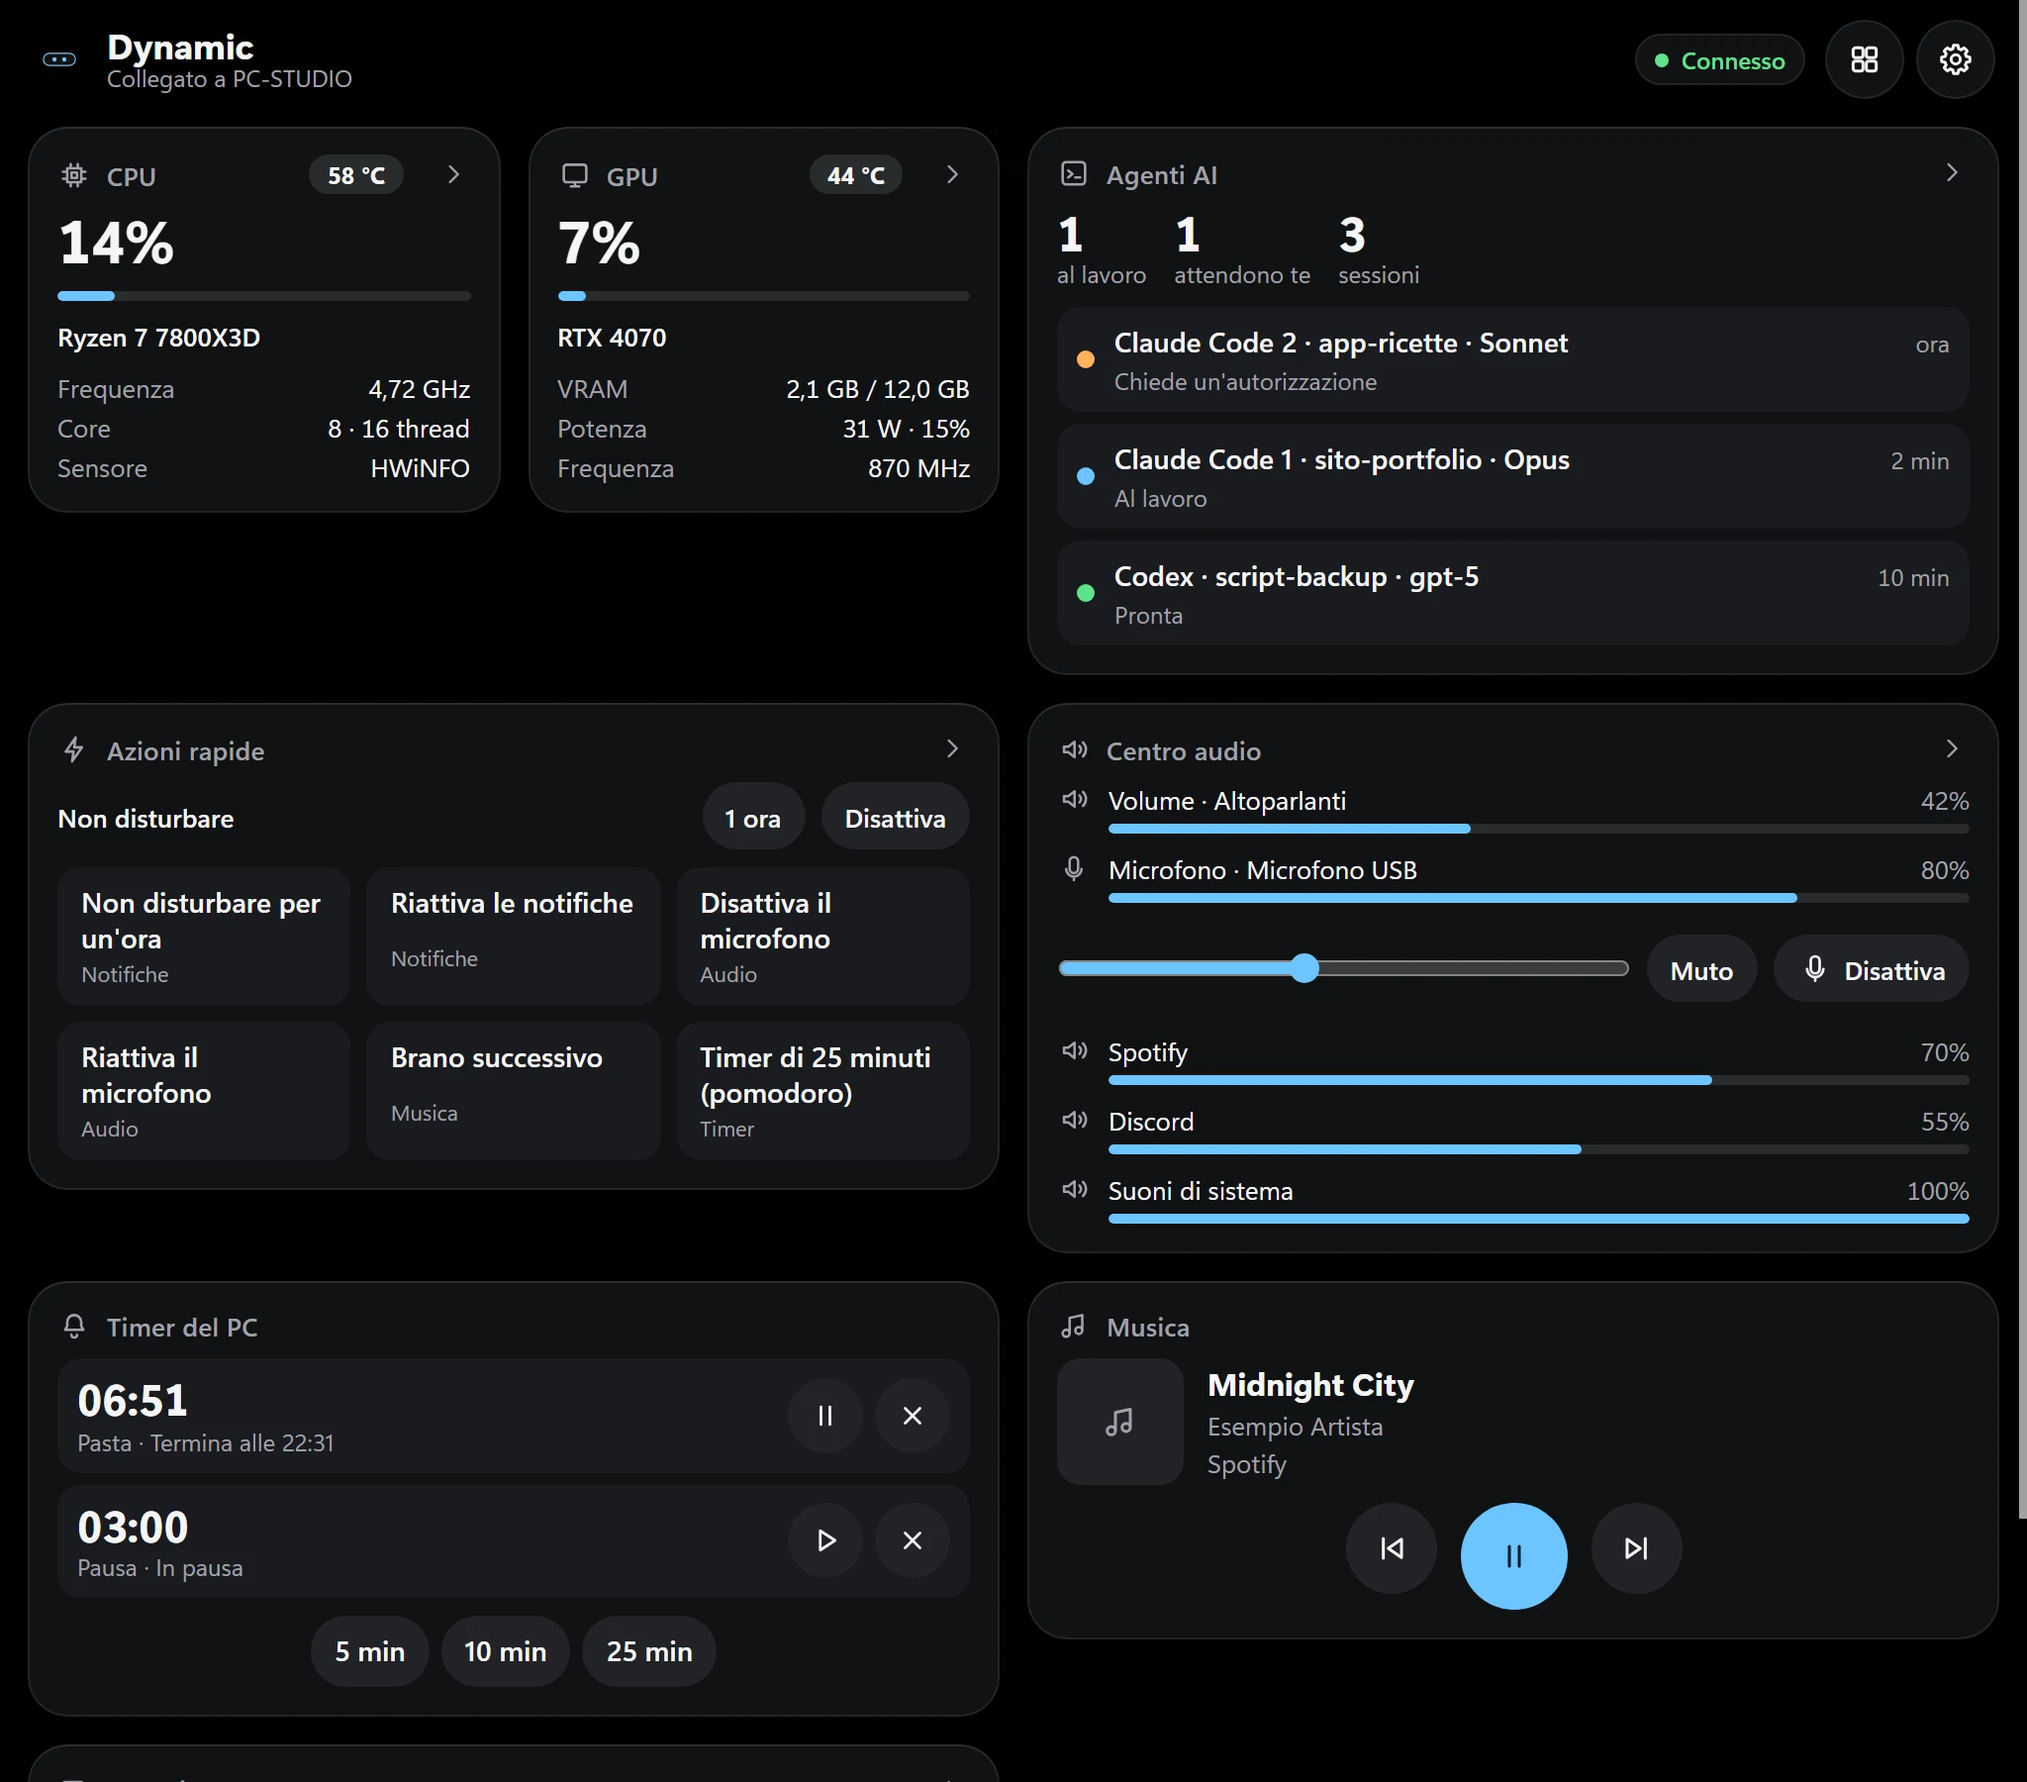
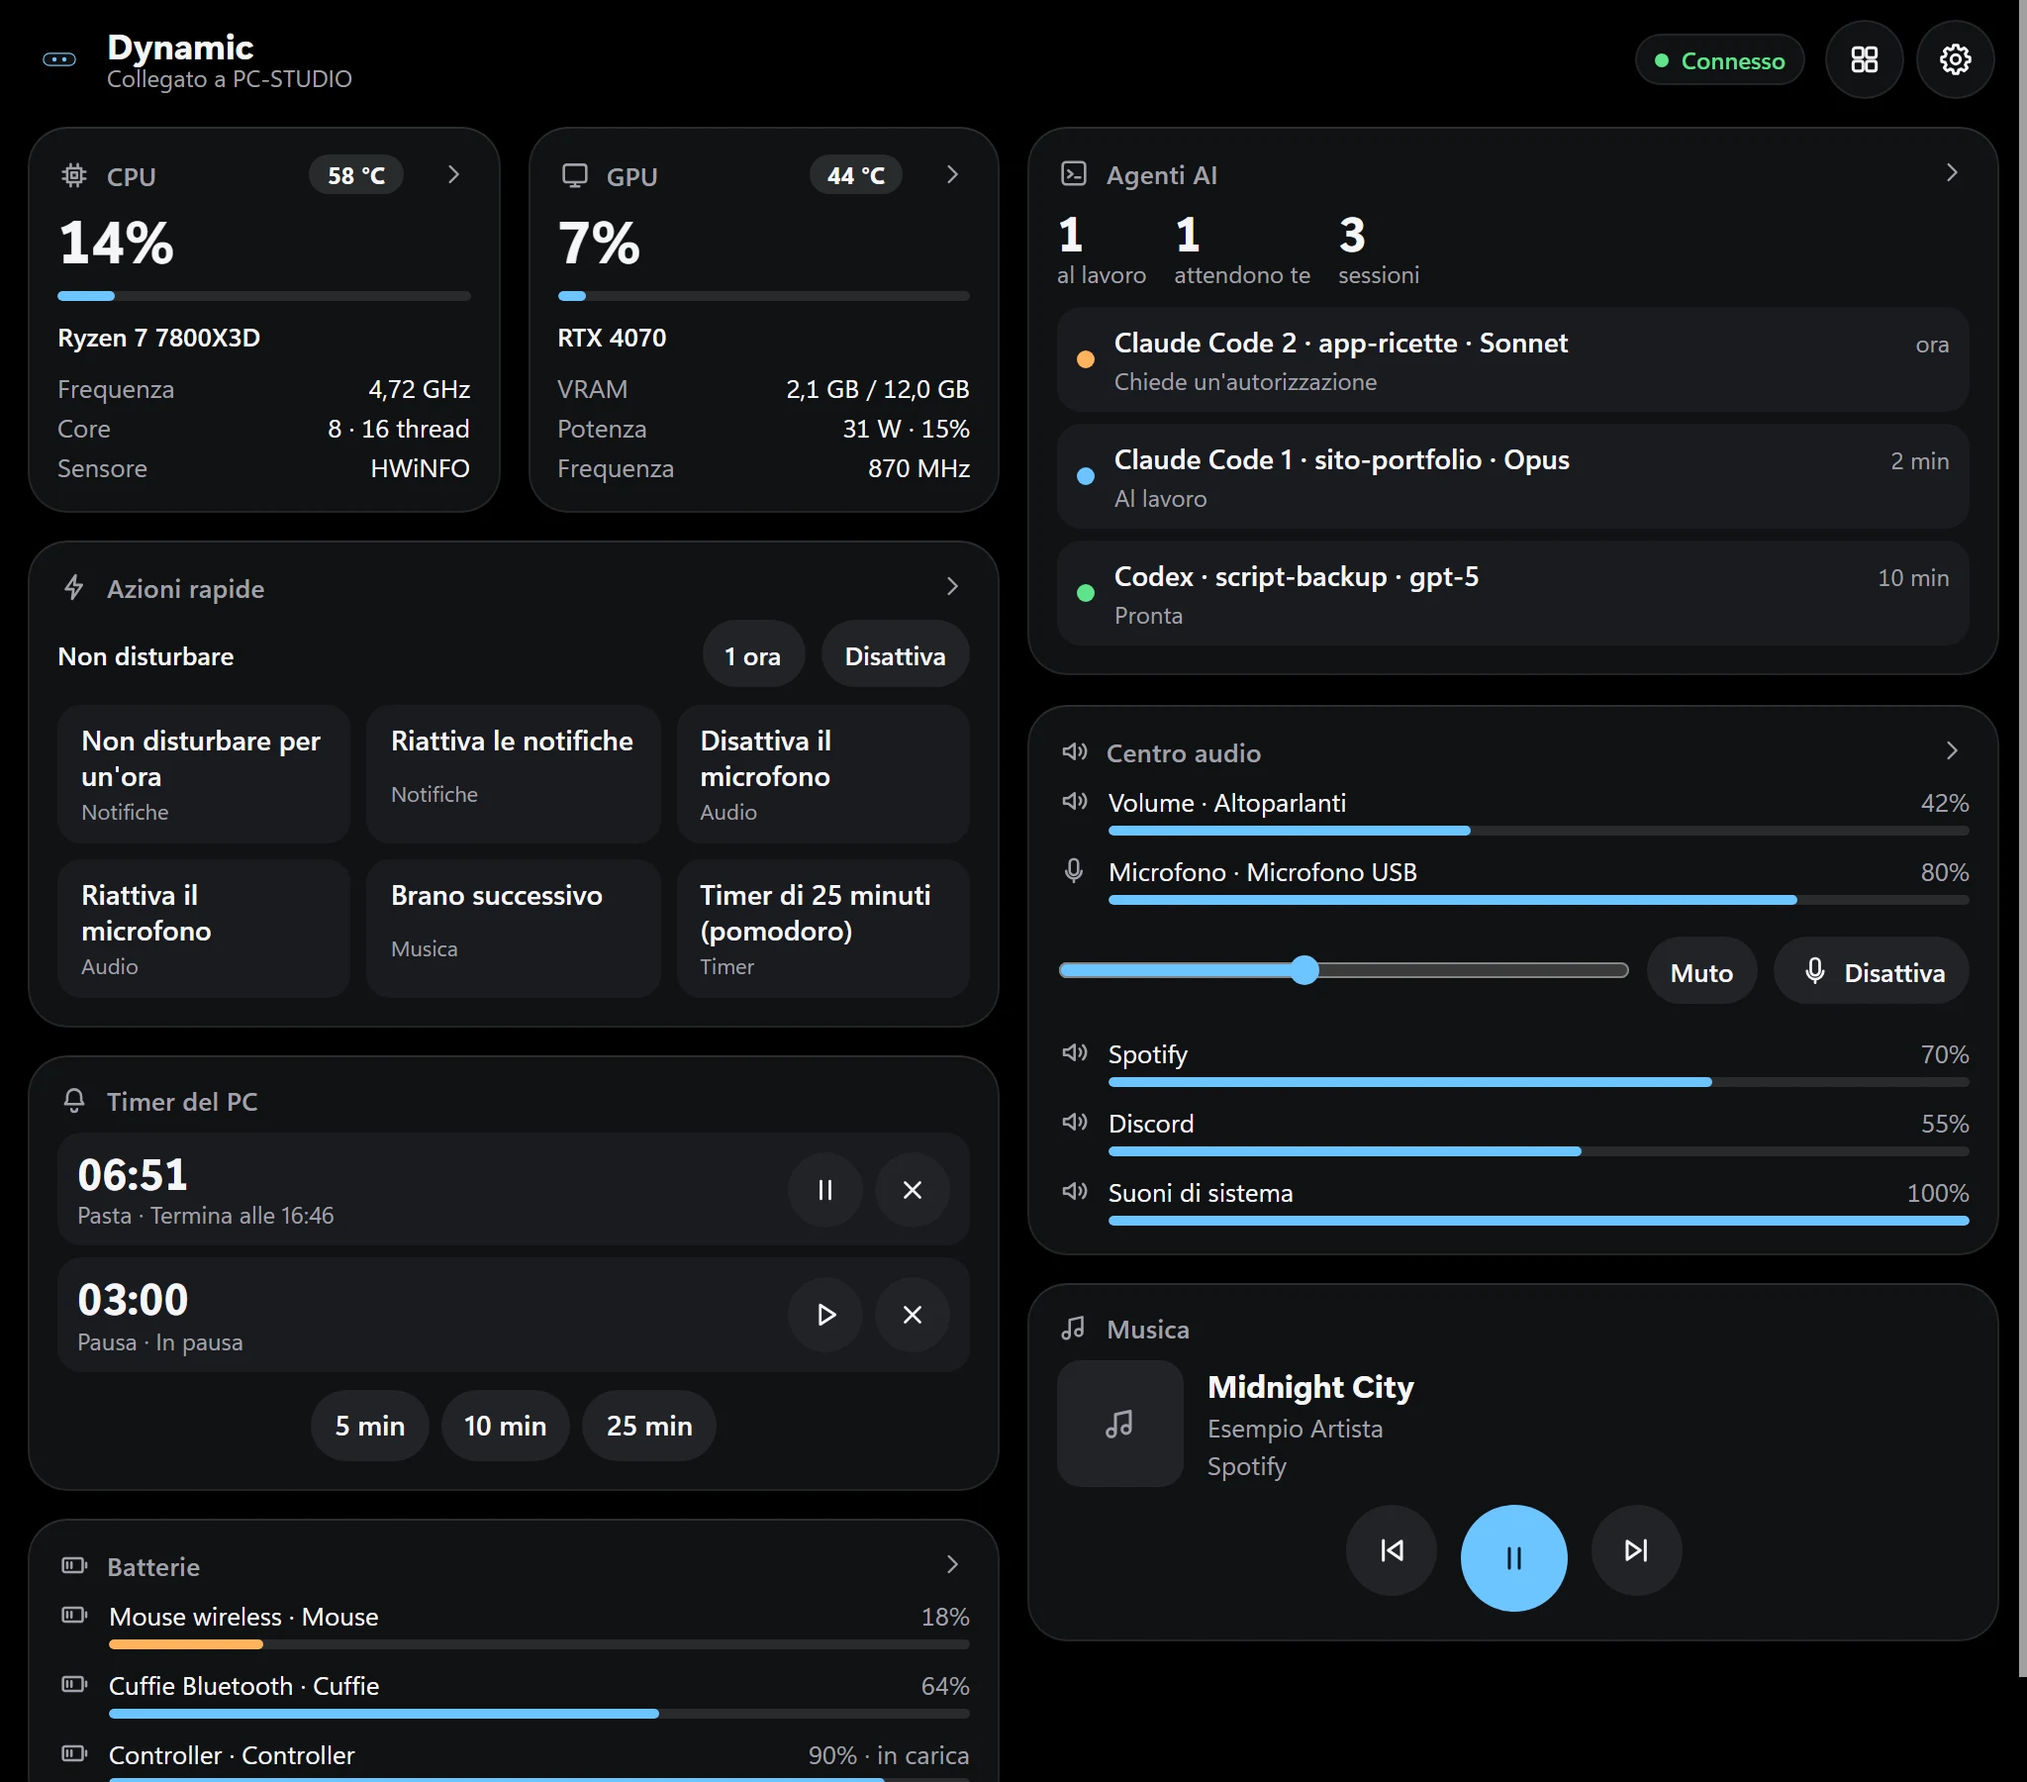
docs: show the 0.6.2 landscape Companion dashboard [skip ci]
Regenerated with the real 0.6.2 Companion page and synthetic data:
the README tablet screenshot and the website iPad landscape shot (Home
and Companion, EN/IT). The site rebuilds once on the 0.6.2 release.

diff --git a/README.md b/README.md
@@ -100,7 +100,7 @@ A fourth style, **Adaptive**, changes width with the activities in progress.
 
 ### Dynamic Companion 0.6.0
 
-Synthetic demo data only; no account, device or hardware value from the development PC is shown.
+Synthetic demo data only; no account, device or hardware value from the development PC is shown. Since 0.6.2 the landscape dashboard (rotated phones and tablets) packs widgets without gaps and keeps your saved order; portrait is unchanged.
 
 | Phone | Tablet |
 |---|---|
